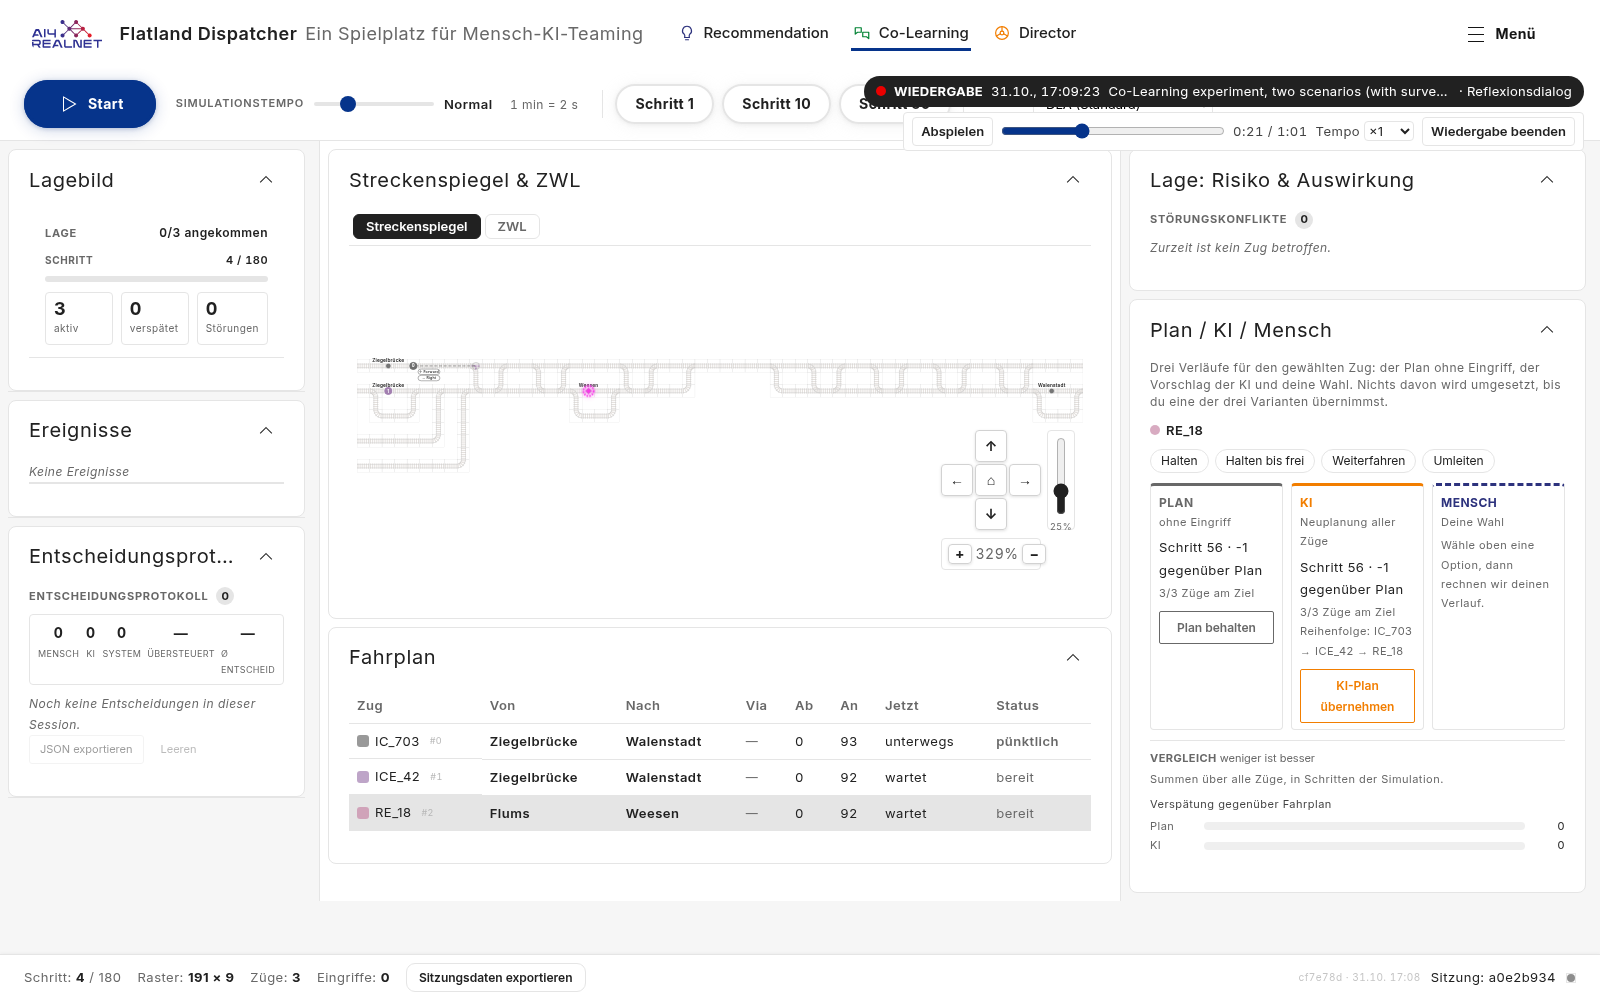
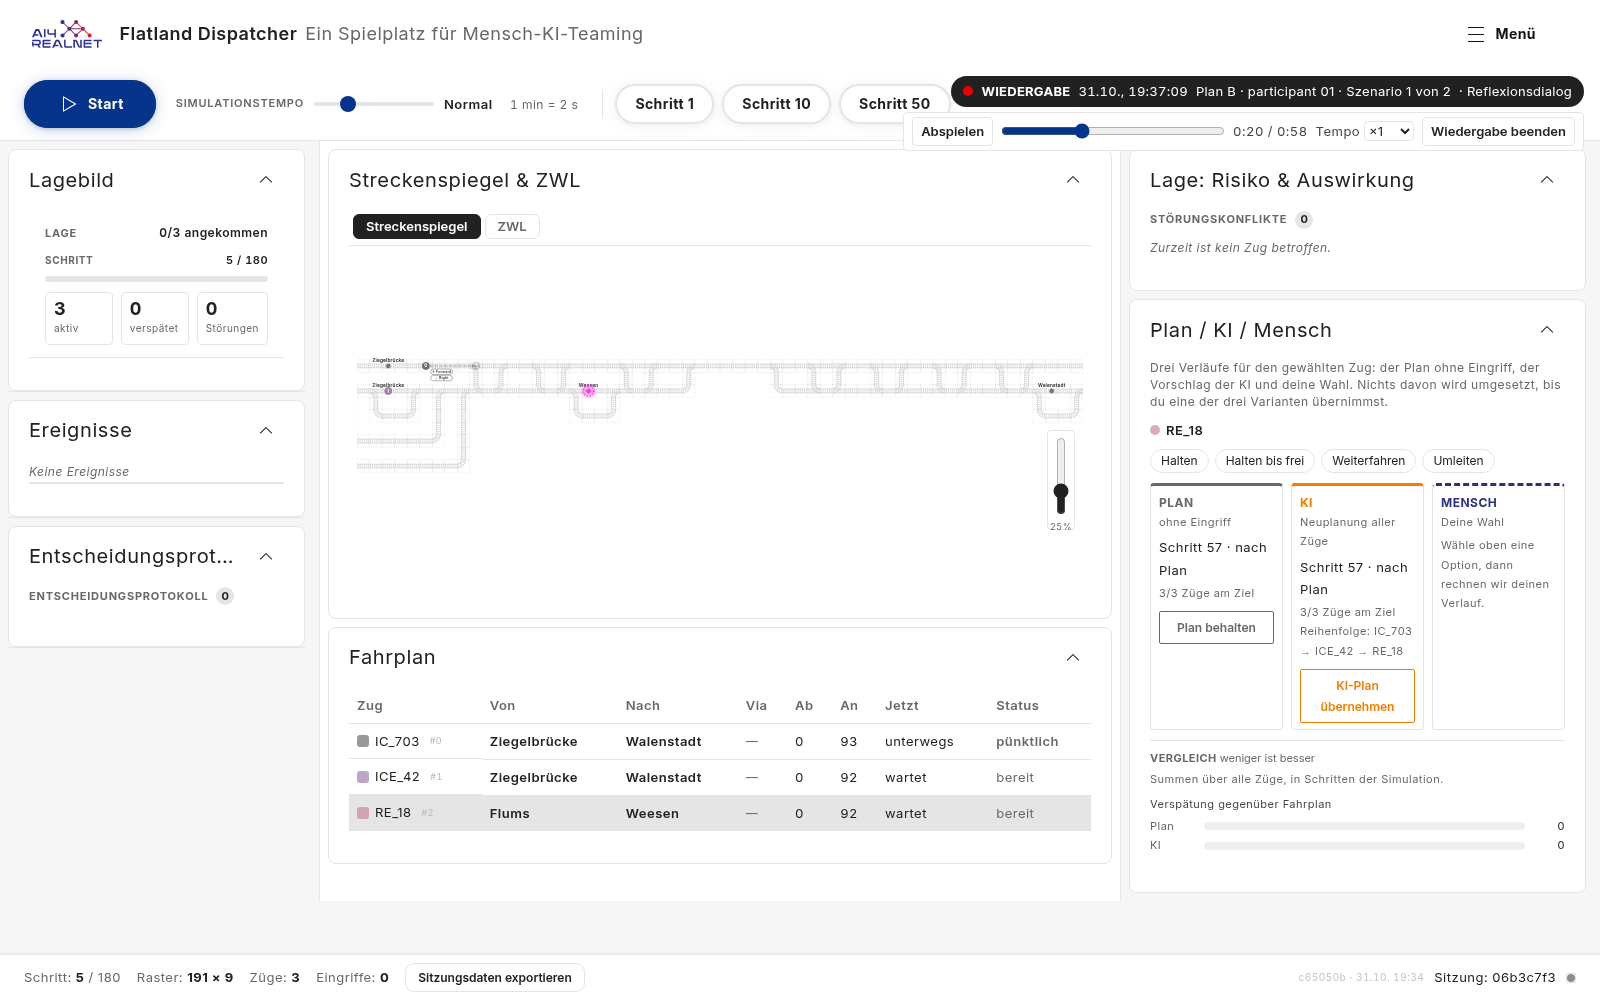
docs(experiment-logging): Plan B quick start, screenshots retaken
A one-line start command for a Plan B lab machine with every logging
part on, at the top of the user docs. The walk-through screenshots are
retaken on plan-b-p01 (two scenarios) instead of the removed
colearning-experiment-2x.

diff --git a/docs/experiment-logging.md b/docs/experiment-logging.md
@@ -11,6 +11,28 @@ the files end up. The design and the open questions are in
 > notes, open questionnaire answers). Decide consent, retention and who holds
 > the files before collecting data from real participants (plan §13, Q7).
 
+## Quick start: a Plan B lab machine
+
+Everything on, in one line, from the repository root:
+
+```bash
+UI_CONFIG=frontend/public/ui-configs/plan-b.json UVICORN_LOG_CONFIG=logging.study.json STUDY_TRAJECTORIES_ENABLED=1 STUDY_SINK_ENABLED=1 ./start-demo.sh
+```
+
+- `UI_CONFIG`: the Plan B restrictions, and "Study logging" always on in
+  the browser ([Switching logging on](#switching-logging-on)).
+- `UVICORN_LOG_CONFIG`: the server call log ([Server part](#server-part)).
+- `STUDY_TRAJECTORIES_ENABLED`: the flatland-rl trajectories
+  ([flatland-rl trajectories](#flatland-rl-trajectories)).
+- `STUDY_SINK_ENABLED`: a server copy of every session record, in one
+  folder per run under `backend/data/study-records/`
+  ([Where the files are](#where-the-files-are)).
+
+Add `8000 "" --rebuild` at the end after pulling new code: `start-demo.sh`
+builds the frontend only when none is there yet. Then, on the start
+screen: "Experimente", "Geführtes Experiment (mit Umfrage)", "Plan B ·
+Teilnehmer:in 01". That condition enforces "Study logging" on its own too.
+
 ## Where the files are
 
 ### Server: one folder per run, one subfolder per session
